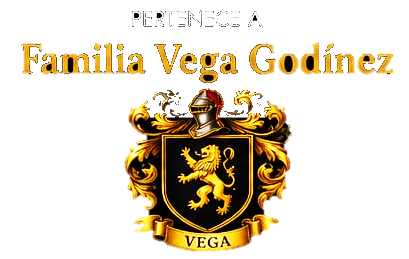
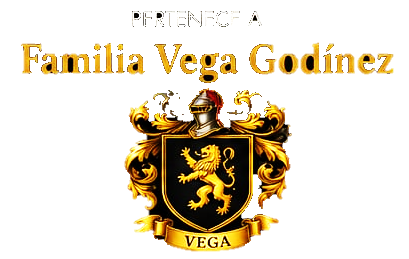
Escudo: transparente todo alrededor (sin grises ni negro suelto fuera del dibujo)

diff --git a/index.html b/index.html
@@ -285,7 +285,7 @@
 <body>
 <div id="portada" class="abierta">
   <div class="caja">
-    <img class="sello" src="img/escudo-familia.png" alt="Pertenece a Familia Vega Godínez">
+    <img class="sello" src="img/escudo-familia.png?v=2" alt="Pertenece a Familia Vega Godínez">
     <h1>Inventario de la colección</h1>
     <div class="bajada">Monedas y billetes</div>
     <form id="pForm" autocomplete="on">
@@ -311,7 +311,7 @@
     <button id="mSalir">Salir</button>
   </div>
   <div class="centro">
-    <img class="sello" src="img/escudo-familia.png" alt="Pertenece a Familia Vega Godínez">
+    <img class="sello" src="img/escudo-familia.png?v=2" alt="Pertenece a Familia Vega Godínez">
     <h1>Inventario de la colección</h1>
     <div id="mTotal"><div class="rot">Valor total de la colección</div><div class="monto" id="mTotalMonto">–</div><div class="det" id="mTotalDet"></div></div>
     <div class="fila-legal">
